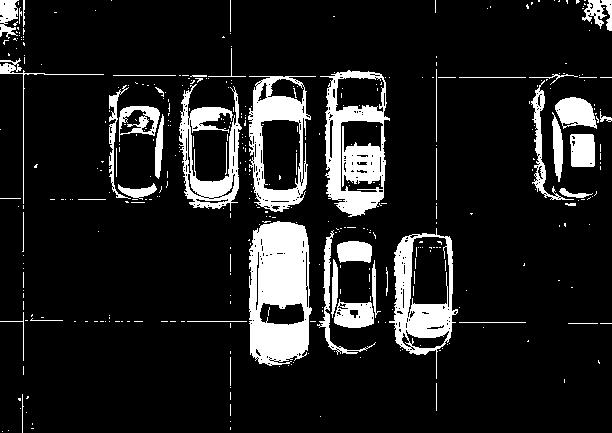
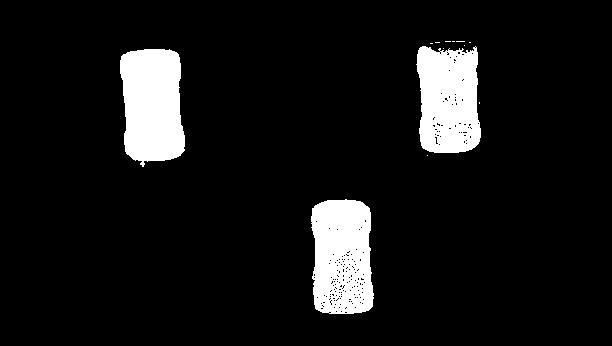
Finishing touches

diff --git a/src/thornton/IndependentStudy/view_model/MainWindow.java b/src/thornton/IndependentStudy/view_model/MainWindow.java
@@ -5,6 +5,9 @@ import java.io.IOException;
 import java.io.InputStreamReader;
 import java.net.URL;
 import java.util.ResourceBundle;
+
+import javafx.collections.FXCollections;
+import javafx.collections.ObservableList;
 import javafx.event.ActionEvent;
 import javafx.fxml.FXML;
 import javafx.scene.control.ComboBox;
@@ -26,7 +29,7 @@ public class MainWindow {
     
 
     @FXML
-    private ComboBox<?> lotComboBox;
+    private ComboBox<String> lotComboBox;
 
     @FXML
     private Button button;
@@ -44,16 +47,22 @@ public class MainWindow {
 
     @FXML
     void ButtonCLick(ActionEvent event) {
+    	if(this.lotComboBox.getValue() == null ){
+    		this.OpenSpotsText.setText("Must Select A lot First");
+    		return;
+    	}
     	StringBuilder sb = new StringBuilder();
+    	String imageName = this.lotComboBox.getValue().replace(" ", "") + ".jpg";
     	try {
 
-			Process p = Runtime.getRuntime().exec("py thresholding.py 14 aerial2.jpg (50,120)");
+			Process p = Runtime.getRuntime().exec("py thresholding.py 20 "+ imageName+" (30,90)");
 			BufferedReader is = new BufferedReader(new InputStreamReader(p.getInputStream()));
 			String line;
 			
 
 			while ((line = is.readLine()) != null)
-				//System.out.println(line);
+				
+
 				sb.append(line);
 				
 			
@@ -62,7 +71,8 @@ public class MainWindow {
 			// TODO Auto-generated catch block
 			e.printStackTrace();
 		}
-		Image img1 = new Image("file:" + IMAGE_PATH + "aerial2.jpg");
+    	
+		Image img1 = new Image("file:" + IMAGE_PATH + imageName);
 		Image img2 = new Image("file:" + IMAGE_PATH + "thresholdImage.jpg");
 		
 		
@@ -85,8 +95,19 @@ public class MainWindow {
         this.button.setOnMousePressed(e -> button.setStyle(CLICKED_BUTTON_STYLE));
         this.button.setOnMouseEntered(e -> button.setStyle(HOVERED_BUTTON_STYLE) );
         this.button.setOnMouseExited(e -> button.setStyle(IDLE_BUTTON_STYLE));
-           
-
+        ObservableList<String> parkingLots = FXCollections.observableArrayList(
+                "Lot 1",
+                "Lot 2",
+                "Lot 3",
+                "Lot 4",
+                "Lot 5",
+                "Lot 6",
+                "Lot 7"
+            );
+        this.lotComboBox.getItems().addAll(parkingLots);
+        
+        
+       
     }
 }
 

diff --git a/thresholding.py b/thresholding.py
@@ -40,15 +40,18 @@ def openSpots(lotSize,ParkingLotImage,dimensions):
     if(avg_area == 0):
         openspots = lotSize
     else:
-        openspots = (total_area // avg_area)
+        openspots =  float(lotSize) - (total_area // avg_area)
     outPut = ('There are ' +str(openspots) + ' open spots in ' + ParkingLotImage[:-4] + '\n')
 
-    #cv2.imshow('original', img)
-    #cv2.imshow('hopeful', image2)
+    '''
+    cv2.imshow('original', img)
+    cv2.imshow('hopeful', image2)
     
-    #cv2.waitKey(0)
-    #cv2.destroyAllWindows()
-
+    cv2.waitKey(0)
+    cv2.destroyAllWindows()
+    print(total_area)
+    print(avg_area)
+    '''
 
 
     return outPut
